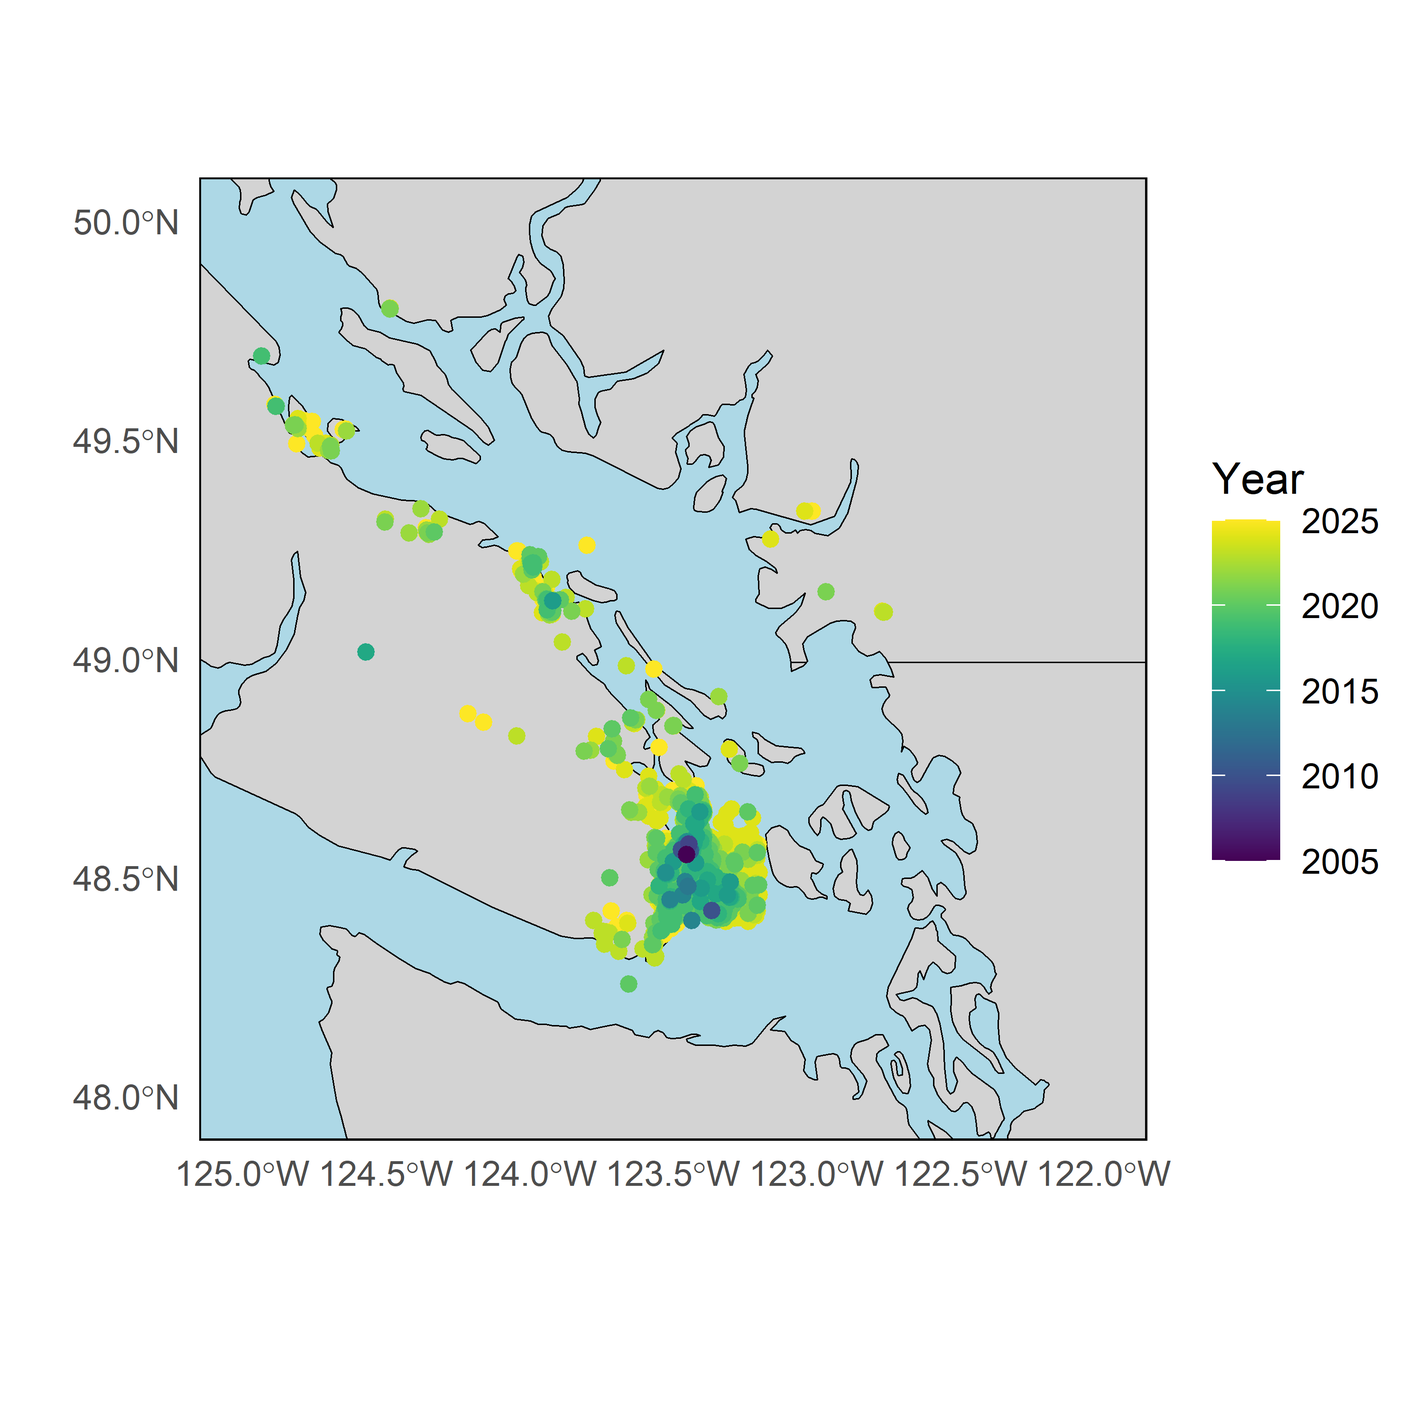
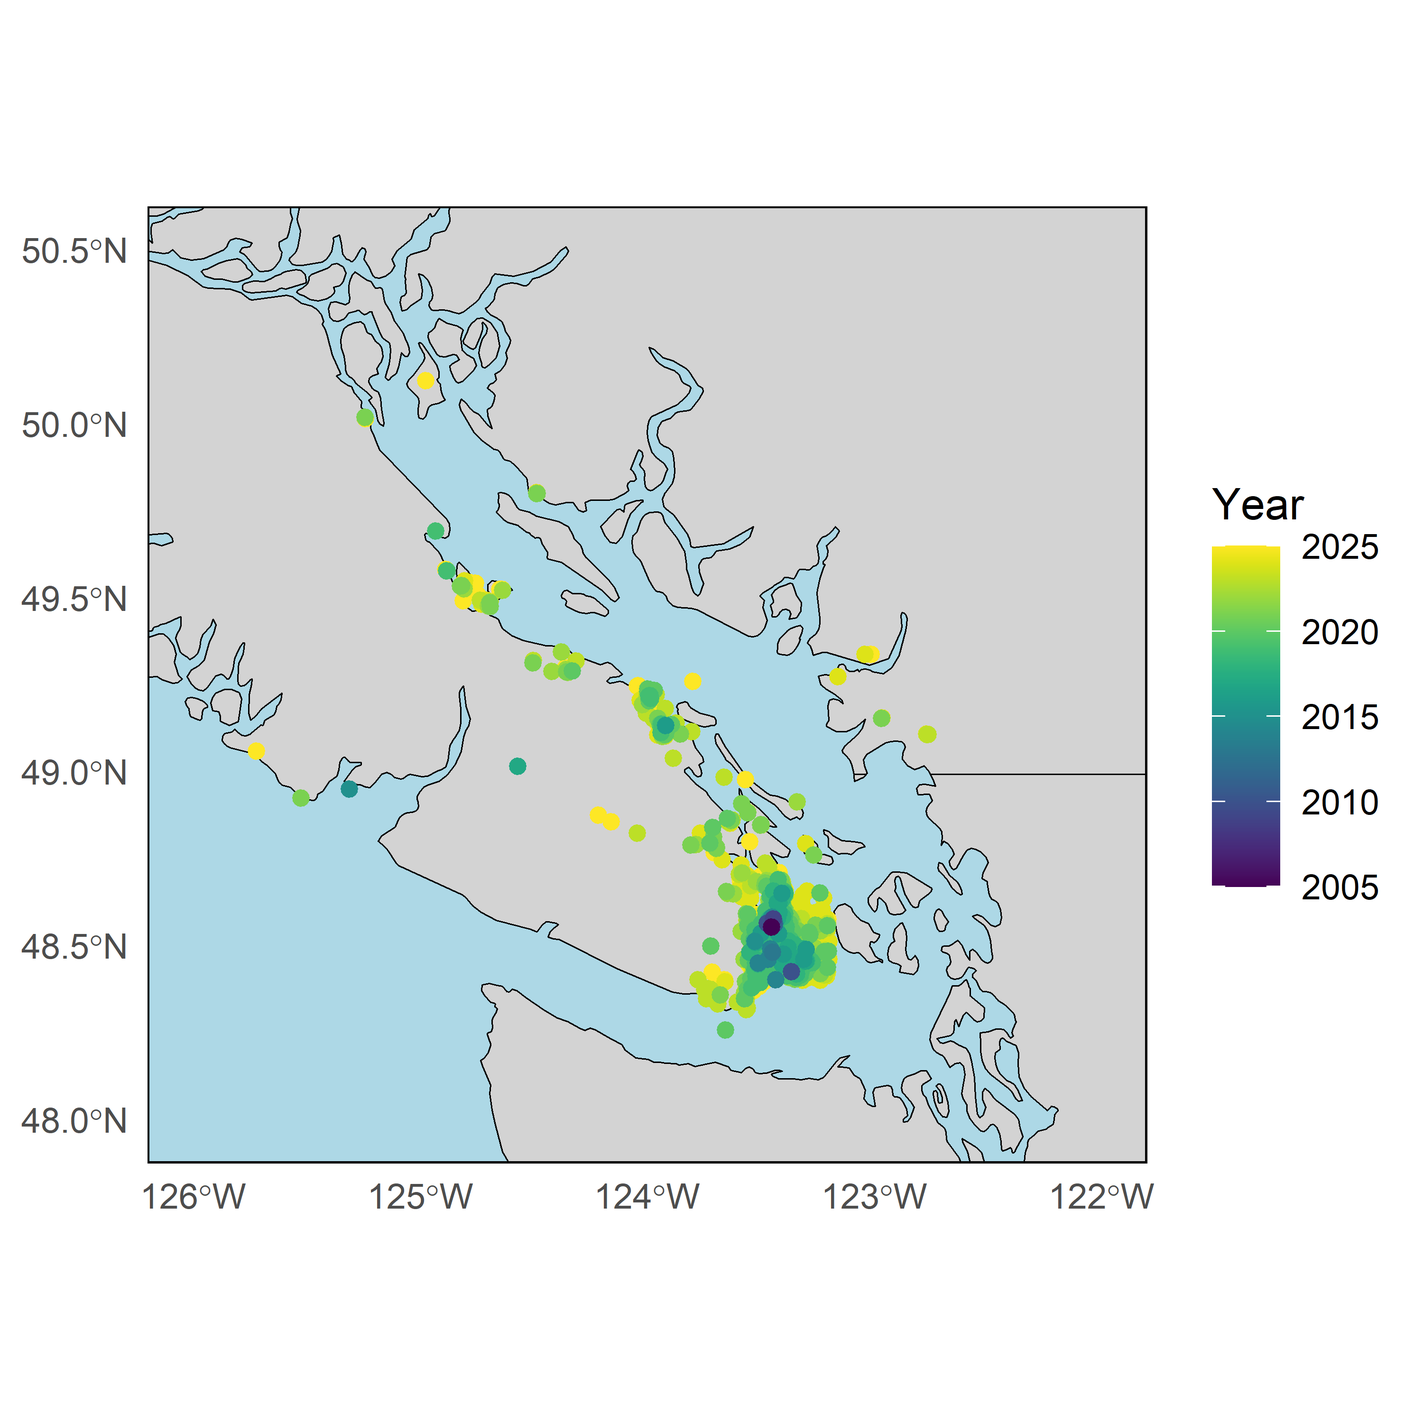
touch up podarcis blog

diff --git a/_site/posts/invasive-species-expansion-miami/index.html b/_site/posts/invasive-species-expansion-miami/index.html
@@ -6,8 +6,10 @@
 
 <meta name="viewport" content="width=device-width, initial-scale=1.0, user-scalable=yes">
 
+<meta name="dcterms.date" content="2026-01-16">
+<meta name="description" content="An exploration of the expansion of three invasive lizard species in Miami using iNaturalist data.">
 
-<title>Welcome to backburner! – backburner</title>
+<title>Expansion of 3 invasive lizards in Miami – backburner</title>
 <style>
 code{white-space: pre-wrap;}
 span.smallcaps{font-variant: small-caps;}
@@ -23,24 +25,22 @@ ul.task-list li input[type="checkbox"] {
 </style>
 
 
-<script src="site_libs/quarto-nav/quarto-nav.js"></script>
-<script src="site_libs/quarto-nav/headroom.min.js"></script>
-<script src="site_libs/clipboard/clipboard.min.js"></script>
-<script src="site_libs/quarto-search/autocomplete.umd.js"></script>
-<script src="site_libs/quarto-search/fuse.min.js"></script>
-<script src="site_libs/quarto-search/quarto-search.js"></script>
-<meta name="quarto:offset" content="./">
-<script src="site_libs/quarto-listing/list.min.js"></script>
-<script src="site_libs/quarto-listing/quarto-listing.js"></script>
-<script src="site_libs/quarto-html/quarto.js"></script>
-<script src="site_libs/quarto-html/popper.min.js"></script>
-<script src="site_libs/quarto-html/tippy.umd.min.js"></script>
-<script src="site_libs/quarto-html/anchor.min.js"></script>
-<link href="site_libs/quarto-html/tippy.css" rel="stylesheet">
-<link href="site_libs/quarto-html/quarto-syntax-highlighting-3a01e2046221230fdceeea94b1ec5d67.css" rel="stylesheet" id="quarto-text-highlighting-styles">
-<script src="site_libs/bootstrap/bootstrap.min.js"></script>
-<link href="site_libs/bootstrap/bootstrap-icons.css" rel="stylesheet">
-<link href="site_libs/bootstrap/bootstrap-fcdb495442a5b5950f9ad8e153208442.min.css" rel="stylesheet" append-hash="true" id="quarto-bootstrap" data-mode="light">
+<script src="../../site_libs/quarto-nav/quarto-nav.js"></script>
+<script src="../../site_libs/quarto-nav/headroom.min.js"></script>
+<script src="../../site_libs/clipboard/clipboard.min.js"></script>
+<script src="../../site_libs/quarto-search/autocomplete.umd.js"></script>
+<script src="../../site_libs/quarto-search/fuse.min.js"></script>
+<script src="../../site_libs/quarto-search/quarto-search.js"></script>
+<meta name="quarto:offset" content="../../">
+<script src="../../site_libs/quarto-html/quarto.js"></script>
+<script src="../../site_libs/quarto-html/popper.min.js"></script>
+<script src="../../site_libs/quarto-html/tippy.umd.min.js"></script>
+<script src="../../site_libs/quarto-html/anchor.min.js"></script>
+<link href="../../site_libs/quarto-html/tippy.css" rel="stylesheet">
+<link href="../../site_libs/quarto-html/quarto-syntax-highlighting-3a01e2046221230fdceeea94b1ec5d67.css" rel="stylesheet" id="quarto-text-highlighting-styles">
+<script src="../../site_libs/bootstrap/bootstrap.min.js"></script>
+<link href="../../site_libs/bootstrap/bootstrap-icons.css" rel="stylesheet">
+<link href="../../site_libs/bootstrap/bootstrap-fcdb495442a5b5950f9ad8e153208442.min.css" rel="stylesheet" append-hash="true" id="quarto-bootstrap" data-mode="light">
 <script id="quarto-search-options" type="application/json">{
   "location": "navbar",
   "copy-button": false,
@@ -68,77 +68,19 @@ ul.task-list li input[type="checkbox"] {
     "search-label": "Search"
   }
 }</script>
-<script>
 
-  window.document.addEventListener("DOMContentLoaded", function (_event) {
-    const listingTargetEl = window.document.querySelector('#listing-listing .list');
-    if (!listingTargetEl) {
-      // No listing discovered, do not attach.
-      return; 
-    }
 
-    const options = {
-      valueNames: ['listing-date','listing-title','listing-author',{ data: ['index'] },{ data: ['categories'] },{ data: ['listing-date-sort'] },{ data: ['listing-title-sort'] }],
-      
-      searchColumns: ["listing-date","listing-title","listing-author"],
-    };
-
-    window['quarto-listings'] = window['quarto-listings'] || {};
-    window['quarto-listings']['listing-listing'] = new List('listing-listing', options);
-
-    if (window['quarto-listing-loaded']) {
-      window['quarto-listing-loaded']();
-    }
-  });
-
-  window.addEventListener('hashchange',() => {
-    if (window['quarto-listing-loaded']) {
-      window['quarto-listing-loaded']();
-    }
-  })
-  </script>
-
-  <script src="https://cdnjs.cloudflare.com/polyfill/v3/polyfill.min.js?features=es6"></script>
-  <script src="https://cdn.jsdelivr.net/npm/mathjax@3/es5/tex-chtml-full.js" type="text/javascript"></script>
-
-<script type="text/javascript">
-const typesetMath = (el) => {
-  if (window.MathJax) {
-    // MathJax Typeset
-    window.MathJax.typeset([el]);
-  } else if (window.katex) {
-    // KaTeX Render
-    var mathElements = el.getElementsByClassName("math");
-    var macros = [];
-    for (var i = 0; i < mathElements.length; i++) {
-      var texText = mathElements[i].firstChild;
-      if (mathElements[i].tagName == "SPAN") {
-        window.katex.render(texText.data, mathElements[i], {
-          displayMode: mathElements[i].classList.contains('display'),
-          throwOnError: false,
-          macros: macros,
-          fleqn: false
-        });
-      }
-    }
-  }
-}
-window.Quarto = {
-  typesetMath
-};
-</script>
-
-<link rel="stylesheet" href="styles.css">
+<link rel="stylesheet" href="../../styles.css">
 </head>
 
-<body class="nav-fixed">
+<body class="nav-fixed fullcontent">
 
 <div id="quarto-search-results"></div>
   <header id="quarto-header" class="headroom fixed-top quarto-banner">
     <nav class="navbar navbar-expand-lg " data-bs-theme="dark">
       <div class="navbar-container container-fluid">
       <div class="navbar-brand-container mx-auto">
-    <a class="navbar-brand" href="./index.html">
+    <a class="navbar-brand" href="../../index.html">
     <span class="navbar-title">backburner</span>
     </a>
   </div>
@@ -151,98 +93,51 @@ window.Quarto = {
 <!-- content -->
 <header id="title-block-header" class="quarto-title-block default page-columns page-full">
   <div class="quarto-title-banner page-columns page-full">
-    <div class="quarto-title column-page-left">
-      <h1 class="title">Welcome to <code>backburner</code>!</h1>
-            <p class="subtitle lead">where I explore random stuff that some day may or may not be useful</p>
-                      </div>
+    <div class="quarto-title column-body">
+      <h1 class="title">Expansion of 3 invasive lizards in Miami</h1>
+                  <div>
+        <div class="description">
+          An exploration of the expansion of three invasive lizard species in Miami using iNaturalist data.
+        </div>
+      </div>
+                          <div class="quarto-categories">
+                <div class="quarto-category">lizards</div>
+                <div class="quarto-category">iNaturalist</div>
+                <div class="quarto-category">mapping</div>
+              </div>
+                  </div>
   </div>
     
   
-  <div class="quarto-title-meta column-page-left">
+  <div class="quarto-title-meta">
 
       
+      <div>
+      <div class="quarto-title-meta-heading">Published</div>
+      <div class="quarto-title-meta-contents">
+        <p class="date">January 16, 2026</p>
+      </div>
+    </div>
     
       
     </div>
     
   
-  </header><div id="quarto-content" class="quarto-container page-columns page-rows-contents page-layout-full page-navbar">
+  </header><div id="quarto-content" class="quarto-container page-columns page-rows-contents page-layout-article page-navbar">
 <!-- sidebar -->
 <!-- margin-sidebar -->
-    <div id="quarto-margin-sidebar" class="sidebar margin-sidebar">
-        
-    <h5 class="quarto-listing-category-title">Categories</h5><div class="quarto-listing-category category-default"><div class="category" data-category="">All <span class="quarto-category-count">(1)</span></div><div class="category" data-category="iNaturalist">iNaturalist <span class="quarto-category-count">(1)</span></div><div class="category" data-category="lizards">lizards <span class="quarto-category-count">(1)</span></div><div class="category" data-category="mapping">mapping <span class="quarto-category-count">(1)</span></div></div></div>
+    
 <!-- main -->
-<main class="content quarto-banner-title-block column-page-left" id="quarto-document-content">
+<main class="content quarto-banner-title-block" id="quarto-document-content">
 
 
 
 
 
-<p>In this blog, I will be creating new posts with the intention of exploring random topics that I find interesting. Some of these topics will be research-related, while others may be just random passing thoughts I decided to waste my time on. The goal is to have fun, learn new things and store all of these random explorations in one place.</p>
 
 
 
-
-<div class="quarto-listing quarto-listing-container-table" id="listing-listing">
-<div class="listing-actions-group">
-   <div class="input-group input-group-sm quarto-listing-sort">
-     <span class="input-group-text"><i class="bi bi-sort-down"></i></span>
-     <select id="listing-listing-sort" class="form-select" aria-label="Order By" onchange="window['quarto-listings']['listing-listing'].sort(this.options[this.selectedIndex].value, { order: this.options[this.selectedIndex].getAttribute('data-direction')})">
-       <option value="" disabled="" selected="" hidden="">Order By</option>
-       <option value="index" data-direction="asc">Default</option>
-         <option value="listing-date-sort" data-direction="asc">
-          Date - Oldest
-        </option>
-         <option value="listing-date-sort" data-direction="desc">
-          Date - Newest
-        </option>
-         <option value="listing-title-sort" data-direction="asc">
-          Title
-        </option>
-         <option value="listing-author" data-direction="asc">
-          Author
-        </option>
-     </select>
-  </div>
-    <div class="input-group input-group-sm quarto-listing-filter">
-      <span class="input-group-text"><i class="bi bi-search"></i></span>
-      <input type="text" class="search form-control" placeholder="Filter">
-    </div>
-</div>
-<table class="quarto-listing-table table table-striped table-hover">
-<thead>
-<tr>
-<th>
-<a class="sort" data-sort="listing-date-sort" onclick="if (this.classList.contains('sort-asc')) { this.classList.add('sort-desc'); this.classList.remove('sort-asc') } else { this.classList.add('sort-asc'); this.classList.remove('sort-desc')} return false;">Date</a>
-</th>
-<th>
-<a class="sort" data-sort="listing-title-sort" onclick="if (this.classList.contains('sort-asc')) { this.classList.add('sort-desc'); this.classList.remove('sort-asc') } else { this.classList.add('sort-asc'); this.classList.remove('sort-desc')} return false;">Title</a>
-</th>
-<th>
-<a class="sort" data-sort="listing-author" onclick="if (this.classList.contains('sort-asc')) { this.classList.add('sort-desc'); this.classList.remove('sort-asc') } else { this.classList.add('sort-asc'); this.classList.remove('sort-desc')} return false;">Author</a>
-</th>
-</tr>
-</thead>
-<tbody class="list">
-<tr data-index="0" data-categories="lizards,iNaturalist,mapping" data-listing-date-sort="1768550400000" data-listing-file-modified-sort="1771203796189" data-listing-date-modified-sort="NaN" data-listing-reading-time-sort="5" data-listing-word-count-sort="952" data-listing-title-sort="Expansion of *Podarcis muralis* in British Columbia" data-listing-filename-sort="index.qmd" onclick="href = this.querySelector('a').getAttribute('href');
- if (href) { window.location=href ; return false; }">
-<td>
-<span class="listing-date">Jan 16, 2026</span>
-</td>
-<td>
-<a href="./posts/podarcis-expansion-bc/index.html" class="title listing-title">Expansion of <em>Podarcis muralis</em> in British Columbia</a>
-</td>
-<td>
-<span class="listing-author">&nbsp;</span>
-</td>
-</tr>
-</tbody>
-</table>
-<div class="listing-no-matching d-none">
-No matching items
-</div>
-</div></main> <!-- /main -->
+</main> <!-- /main -->
 <script id="quarto-html-after-body" type="application/javascript">
 window.document.addEventListener("DOMContentLoaded", function (event) {
   const toggleBodyColorMode = (bsSheetEl) => {

diff --git a/_site/posts/podarcis-expansion-bc/index.html b/_site/posts/podarcis-expansion-bc/index.html
@@ -171,6 +171,12 @@ pre > code.sourceCode > span > a:first-child::before { text-decoration: underlin
 
 
 
+<div class="quarto-figure quarto-figure-center">
+<figure class="figure">
+<p><a href="podarcis-muralis.jpg" class="lightbox" data-gallery="quarto-lightbox-gallery-1" title="A common wall lizard (Podarcis muralis)"><img src="podarcis-muralis.jpg" class="img-fluid figure-img" alt="A common wall lizard (Podarcis muralis)"></a></p>
+<figcaption>A common wall lizard (<em>Podarcis muralis</em>)</figcaption>
+</figure>
+</div>
 <section id="context" class="level2">
 <h2 class="anchored" data-anchor-id="context">Context</h2>
 <p>The Common Wall Lizard (<em>Podarcis muralis</em>), a small lizard native to Europe, has become a conspicuous new resident in many parts of British Columbia. Since its introduction to Vancouver Island in the 1970s from a small founding population, the lizard rapidly expanded. Its range has grown exponentially, now covering a large portion of the island and with satellite populations appearing on the mainland and surrounding islands.</p>
@@ -178,7 +184,6 @@ pre > code.sourceCode > span > a:first-child::before { text-decoration: underlin
 <blockquote class="blockquote">
 <p>Canada’s harsh winters have historically acted as a natural barrier to many invasive animal species that flourish elsewhere. However, climate change is shifting these thermal boundaries, putting ecosystems that were once safe at risk. Predicting poleward range expansion is challenging because standard correlative methods often omit factors such as physiology, behavior, and the ability for local adaptation, which can help invasive animals succeed in seemingly unsuitable climates. Therefore, there is an urgent need for mechanistic frameworks that go beyond correlation to improve predictions of invasive spread. I propose to develop such a framework using the invasion of the common wall lizard (Podarcis muralis) on Vancouver Island as a model system. Despite apparent mismatches in climate for this Mediterranean ectotherm, P. muralis has rapidly expanded across British Columbia since its introduction in 1970. Now present on the Canadian mainland, it poses a serious ecological threat by outcompeting native reptiles and disrupting local food webs through insect predation. Based at the University of British Columbia, I will first assess the current range and traits of the invading lizards. In partnership with Dr.&nbsp;Katie Marshall and Dr.&nbsp;Chris Harley, I will then use ecophysiological modeling to understand how local climates and habitats influence P. muralis’s physiology and behavior. These insights will be incorporated into a hierarchical Bayesian framework, developed with Dr.&nbsp;Marie Auger-Methé, to discern the mechanisms underlying the spread of P. muralis while rigorously accounting for observational biases and spatiotemporal autocorrelations. Beyond generating habitat suitability maps to forecast the wall lizard’s future spread, this research will establish a transferable, scalable framework for modeling the colonization of high-latitude regions by non-native ectotherms. Ultimately, the proposed framework will provide a mechanistic basis for assessing invasion risks across Canada’s shifting latitudinal gradients, including the increasingly vulnerable Arctic and sub-Arctic regions.</p>
 </blockquote>
-<p>I ended up getting the proposal funded but I declined it.</p>
 </section>
 <section id="data-exploration" class="level2">
 <h2 class="anchored" data-anchor-id="data-exploration">Data exploration</h2>
@@ -235,18 +240,20 @@ pre > code.sourceCode > span > a:first-child::before { text-decoration: underlin
 <span id="cb3-9"><a href="#cb3-9" aria-hidden="true" tabindex="-1"></a>    <span class="at">panel.border =</span> <span class="fu">element_rect</span>(<span class="at">fill =</span> <span class="cn">NA</span>),</span>
 <span id="cb3-10"><a href="#cb3-10" aria-hidden="true" tabindex="-1"></a>    <span class="at">panel.grid =</span> <span class="fu">element_blank</span>()</span>
 <span id="cb3-11"><a href="#cb3-11" aria-hidden="true" tabindex="-1"></a>  ) <span class="sc">+</span></span>
-<span id="cb3-12"><a href="#cb3-12" aria-hidden="true" tabindex="-1"></a>  <span class="fu">coord_sf</span>(<span class="at">xlim =</span> <span class="fu">c</span>(<span class="sc">-</span><span class="dv">125</span>, <span class="sc">-</span><span class="dv">122</span>), <span class="at">ylim =</span> <span class="fu">c</span>(<span class="dv">48</span>, <span class="dv">50</span>)) <span class="sc">+</span></span>
-<span id="cb3-13"><a href="#cb3-13" aria-hidden="true" tabindex="-1"></a>  <span class="fu">labs</span>(<span class="at">x =</span> <span class="st">""</span>, <span class="at">y =</span> <span class="st">""</span>, <span class="at">color =</span> <span class="st">"Year"</span>)</span></code><button title="Copy to Clipboard" class="code-copy-button"><i class="bi"></i></button></pre></div>
+<span id="cb3-12"><a href="#cb3-12" aria-hidden="true" tabindex="-1"></a>  <span class="fu">coord_sf</span>(<span class="at">xlim =</span> <span class="fu">c</span>(<span class="sc">-</span><span class="dv">126</span>, <span class="sc">-</span><span class="dv">122</span>), <span class="at">ylim =</span> <span class="fu">c</span>(<span class="dv">48</span>, <span class="fl">50.5</span>)) <span class="sc">+</span></span>
+<span id="cb3-13"><a href="#cb3-13" aria-hidden="true" tabindex="-1"></a>  <span class="fu">labs</span>(<span class="at">color =</span> <span class="st">"Year"</span>) <span class="sc">+</span></span>
+<span id="cb3-14"><a href="#cb3-14" aria-hidden="true" tabindex="-1"></a>  <span class="fu">theme</span>(<span class="at">axis.title =</span> <span class="fu">element_blank</span>())</span></code><button title="Copy to Clipboard" class="code-copy-button"><i class="bi"></i></button></pre></div>
 </details>
 <div class="cell-output-display">
 <div>
 <figure class="figure">
-<p><a href="index_files/figure-html/unnamed-chunk-4-1.png" class="lightbox" data-gallery="quarto-lightbox-gallery-1"><img src="index_files/figure-html/unnamed-chunk-4-1.png" class="img-fluid figure-img" width="1500"></a></p>
+<p><a href="index_files/figure-html/unnamed-chunk-4-1.png" class="lightbox" data-gallery="quarto-lightbox-gallery-2"><img src="index_files/figure-html/unnamed-chunk-4-1.png" class="img-fluid figure-img" width="1500"></a></p>
 </figure>
 </div>
 </div>
 </div>
-<p>And I plot the number of observations per year to visualize the temporal expansion of the species.</p>
+<p>It looks like the origin of the invasion is located in southern Vancouver Island. Expansion proceeds northwards and eastwards towards the mainland. It seems to have gone all around the straight of Georgia and not by island-hopping through the Gulf Islands. As of recent years, it seems to have gone all the way to the mainland and is now present in the city of Vancouver.</p>
+<p>Below I plot the number of observations per year to visualize the temporal expansion of the species.</p>
 <div class="cell" data-layout-align="center">
 <details class="code-fold">
 <summary>Plot observations over time</summary>
@@ -262,11 +269,12 @@ pre > code.sourceCode > span > a:first-child::before { text-decoration: underlin
 <div class="cell-output-display">
 <div class="quarto-figure quarto-figure-center">
 <figure class="figure">
-<p><a href="index_files/figure-html/unnamed-chunk-5-1.png" class="lightbox" data-gallery="quarto-lightbox-gallery-2"><img src="index_files/figure-html/unnamed-chunk-5-1.png" class="img-fluid quarto-figure quarto-figure-center figure-img" style="width:75.0%"></a></p>
+<p><a href="index_files/figure-html/unnamed-chunk-5-1.png" class="lightbox" data-gallery="quarto-lightbox-gallery-3"><img src="index_files/figure-html/unnamed-chunk-5-1.png" class="img-fluid quarto-figure quarto-figure-center figure-img" style="width:75.0%"></a></p>
 </figure>
 </div>
 </div>
 </div>
+<p>As with most iNaturalist data, there is a strong bias towards recent year.</p>
 <p>Lastly, I plot the observations by month, standardized by year to visualize the seasonal pattern of observations.</p>
 <div class="cell" data-layout-align="center">
 <details class="code-fold">
@@ -288,11 +296,12 @@ pre > code.sourceCode > span > a:first-child::before { text-decoration: underlin
 <div class="cell-output-display">
 <div class="quarto-figure quarto-figure-center">
 <figure class="figure">
-<p><a href="index_files/figure-html/unnamed-chunk-6-1.png" class="lightbox" data-gallery="quarto-lightbox-gallery-3"><img src="index_files/figure-html/unnamed-chunk-6-1.png" class="img-fluid quarto-figure quarto-figure-center figure-img" style="width:75.0%"></a></p>
+<p><a href="index_files/figure-html/unnamed-chunk-6-1.png" class="lightbox" data-gallery="quarto-lightbox-gallery-4"><img src="index_files/figure-html/unnamed-chunk-6-1.png" class="img-fluid quarto-figure quarto-figure-center figure-img" style="width:75.0%"></a></p>
 </figure>
 </div>
 </div>
 </div>
+<p>Looks like it peaks in April and again in August-September, although with some year-to-year variation specially between 2019 and 2025 when there is full data coverage.</p>
 
 
 </section>

diff --git a/_site/styles.css b/_site/styles.css
@@ -1,1 +1,10 @@
 /* css styles */
+
+.navbar {
+  background-color: rgb(65, 65, 65);
+}
+
+.navbar-title {
+  font-family: monospace;
+  color: white !important;
+}

diff --git a/styles.css b/styles.css
@@ -1,1 +1,10 @@
 /* css styles */
+
+.navbar {
+  background-color: rgb(65, 65, 65);
+}
+
+.navbar-title {
+  font-family: monospace;
+  color: white !important;
+}
